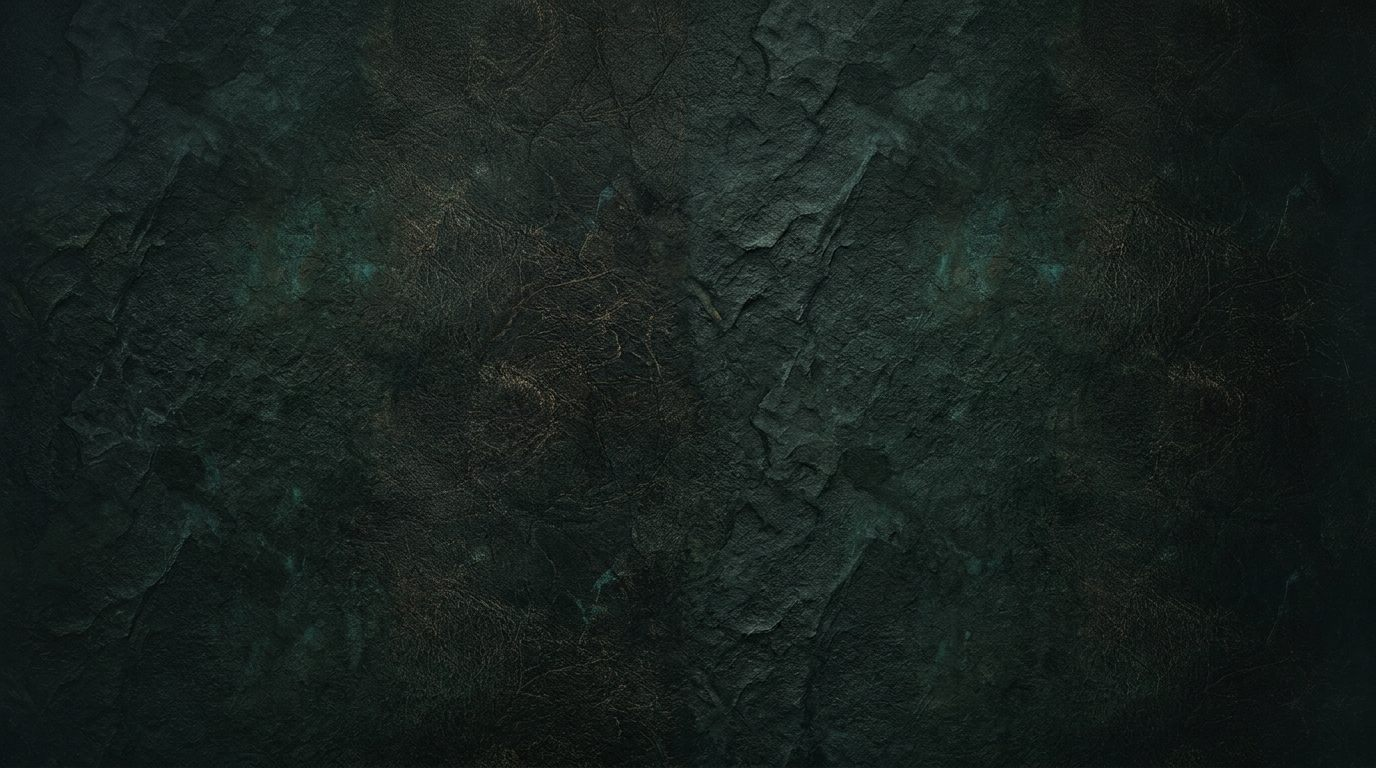
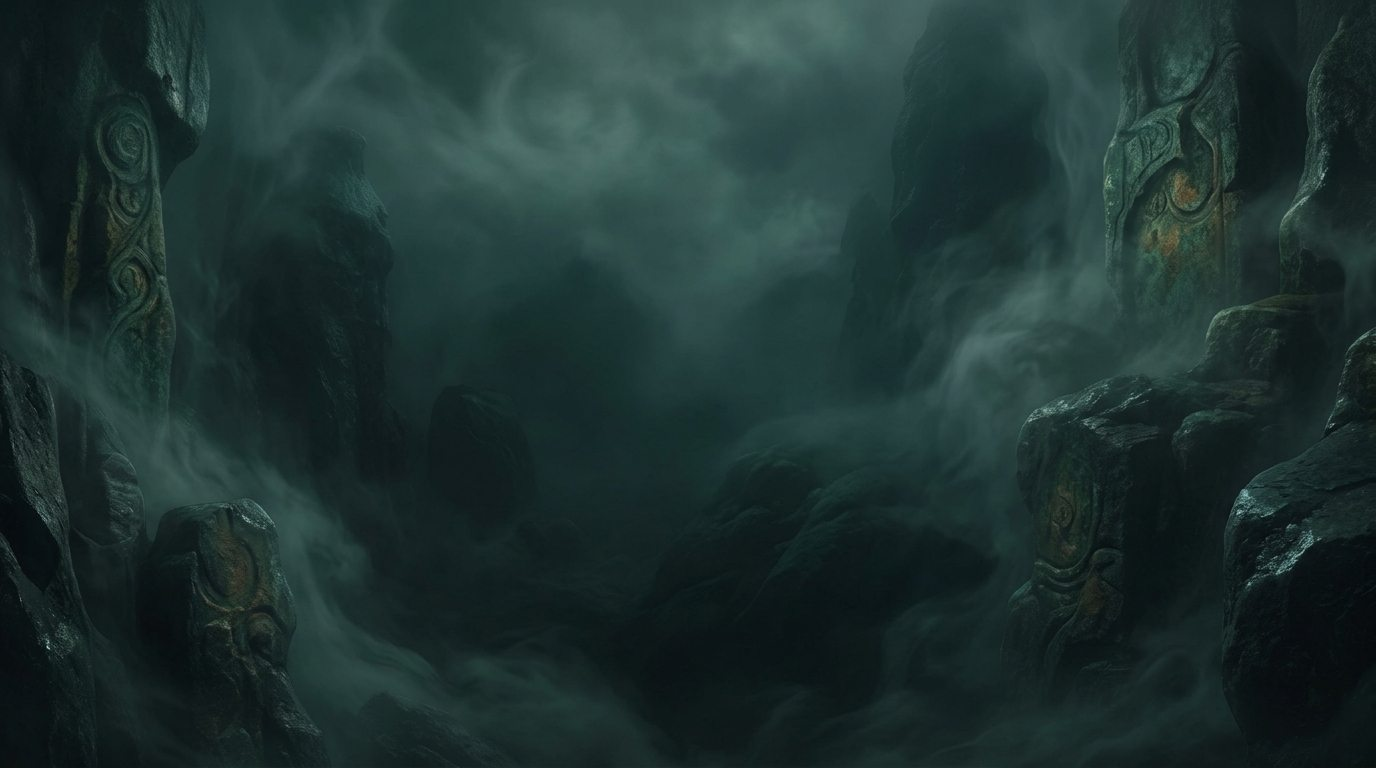
0.9.009

diff --git a/themes/cthulhu-arkham/style.css b/themes/cthulhu-arkham/style.css
@@ -39,9 +39,17 @@
 
 body {
     background-color: #0b1917;
-    background-image: radial-gradient(ellipse at 50% 25%, rgba(38, 79, 71, 0.16) 0%, rgba(7, 15, 14, 0.58) 85%), url('assets/bg.jpg');
-    background-size: auto, 800px auto;
-    background-attachment: scroll, fixed;
+    background-image: radial-gradient(ellipse at 50% 25%, rgba(38, 79, 71, 0.12) 0%, rgba(7, 15, 14, 0.42) 85%), url('assets/bg.jpg?v=0.9.009');
+    background-size: cover, cover;
+    background-position: center center, center center;
+    background-repeat: no-repeat, no-repeat;
+    background-attachment: fixed, fixed;
+}
+
+@media (max-width: 768px) {
+    body {
+        background-attachment: scroll, scroll;
+    }
 }
 
 .site-header {

diff --git a/themes/scifi-hud/style.css b/themes/scifi-hud/style.css
@@ -53,9 +53,17 @@
 
 body {
     background-color: #060c17;
-    background-image: radial-gradient(ellipse at 50% 0%, rgba(14, 165, 233, 0.14) 0%, rgba(4, 8, 16, 0.62) 80%), url('assets/bg.jpg');
-    background-size: auto, 760px auto;
-    background-attachment: scroll, fixed;
+    background-image: radial-gradient(ellipse at 50% 0%, rgba(14, 165, 233, 0.1) 0%, rgba(4, 8, 16, 0.45) 85%), url('assets/bg.jpg?v=0.9.009');
+    background-size: cover, cover;
+    background-position: center center, center center;
+    background-repeat: no-repeat, no-repeat;
+    background-attachment: fixed, fixed;
+}
+
+@media (max-width: 768px) {
+    body {
+        background-attachment: scroll, scroll;
+    }
 }
 
 .site-header {

diff --git a/themes/fantasy-battle/style.css b/themes/fantasy-battle/style.css
@@ -36,9 +36,17 @@
 
 body {
     background-color: #181a1e;
-    background-image: linear-gradient(180deg, rgba(14, 15, 18, 0.45) 0%, rgba(22, 18, 18, 0.62) 100%), url('assets/bg.jpg');
-    background-size: auto, 680px auto;
-    background-attachment: scroll, fixed;
+    background-image: linear-gradient(180deg, rgba(14, 15, 18, 0.32) 0%, rgba(22, 18, 18, 0.48) 100%), url('assets/bg.jpg?v=0.9.009');
+    background-size: cover, cover;
+    background-position: center center, center center;
+    background-repeat: no-repeat, no-repeat;
+    background-attachment: fixed, fixed;
+}
+
+@media (max-width: 768px) {
+    body {
+        background-attachment: scroll, scroll;
+    }
 }
 
 .site-header {

diff --git a/app/Core/Version.php b/app/Core/Version.php
@@ -5,7 +5,7 @@ namespace App\Core;
 
 class Version
 {
-    public const CURRENT = '0.9.008';
+    public const CURRENT = '0.9.009';
 
     /**
      * Fortlaufende Änderungshistorie & Migrations-Schritte.
@@ -117,6 +117,14 @@ class Version
                     'Relativen CSS-Bildpfad für die Hintergrundtexturen (assets/bg.jpg) in allen 8 Genre-Themes korrigiert, sodass die Texturen nun überall sichtbar geladen werden',
                     'Theme „Keltensiegel“ in „Keltensiegel (Mittelalter / Fantasy – Feiern)“ umbenannt und obere Eckknoten sauber im hellgrünen Inhaltsbereich unterhalb der Kopfleiste ausgerichtet',
                     'Theme „Tanzball“ in „Feuervogel (Mittelalter / Fantasy – Tanzball)“ umbenannt: purpurroter Damast-Brokat im Header kombiniert mit hellem Perlweiß-/Seiden-Hintergrund hinter dem Anmeldeformular',
+                ],
+            ],
+            '0.9.009' => [
+                'date'    => '2026-11-26',
+                'title'   => 'Vollflächige Breitbild-Hintergründe ohne Kachel-Effekt für „Orbital Terminal“, „Eisen & Banner“ und „Arkham Grimoire“',
+                'changes' => [
+                    'Neue ruhige 16:9-Breitbild-Hintergrundgrafiken ohne kleinteiliges Kachelmuster für „Orbital Terminal“, „Eisen & Banner“ und „Arkham Grimoire“ erstellt',
+                    'Hintergrunddarstellung dieser drei Themes auf vollflächiges, nicht wiederholendes Cover-Layout (background-size: cover, fixed) umgestellt, um Kachelwiederholungen und Kantenbrüche vollständig zu beseitigen',
                 ],
             ],
         ];
